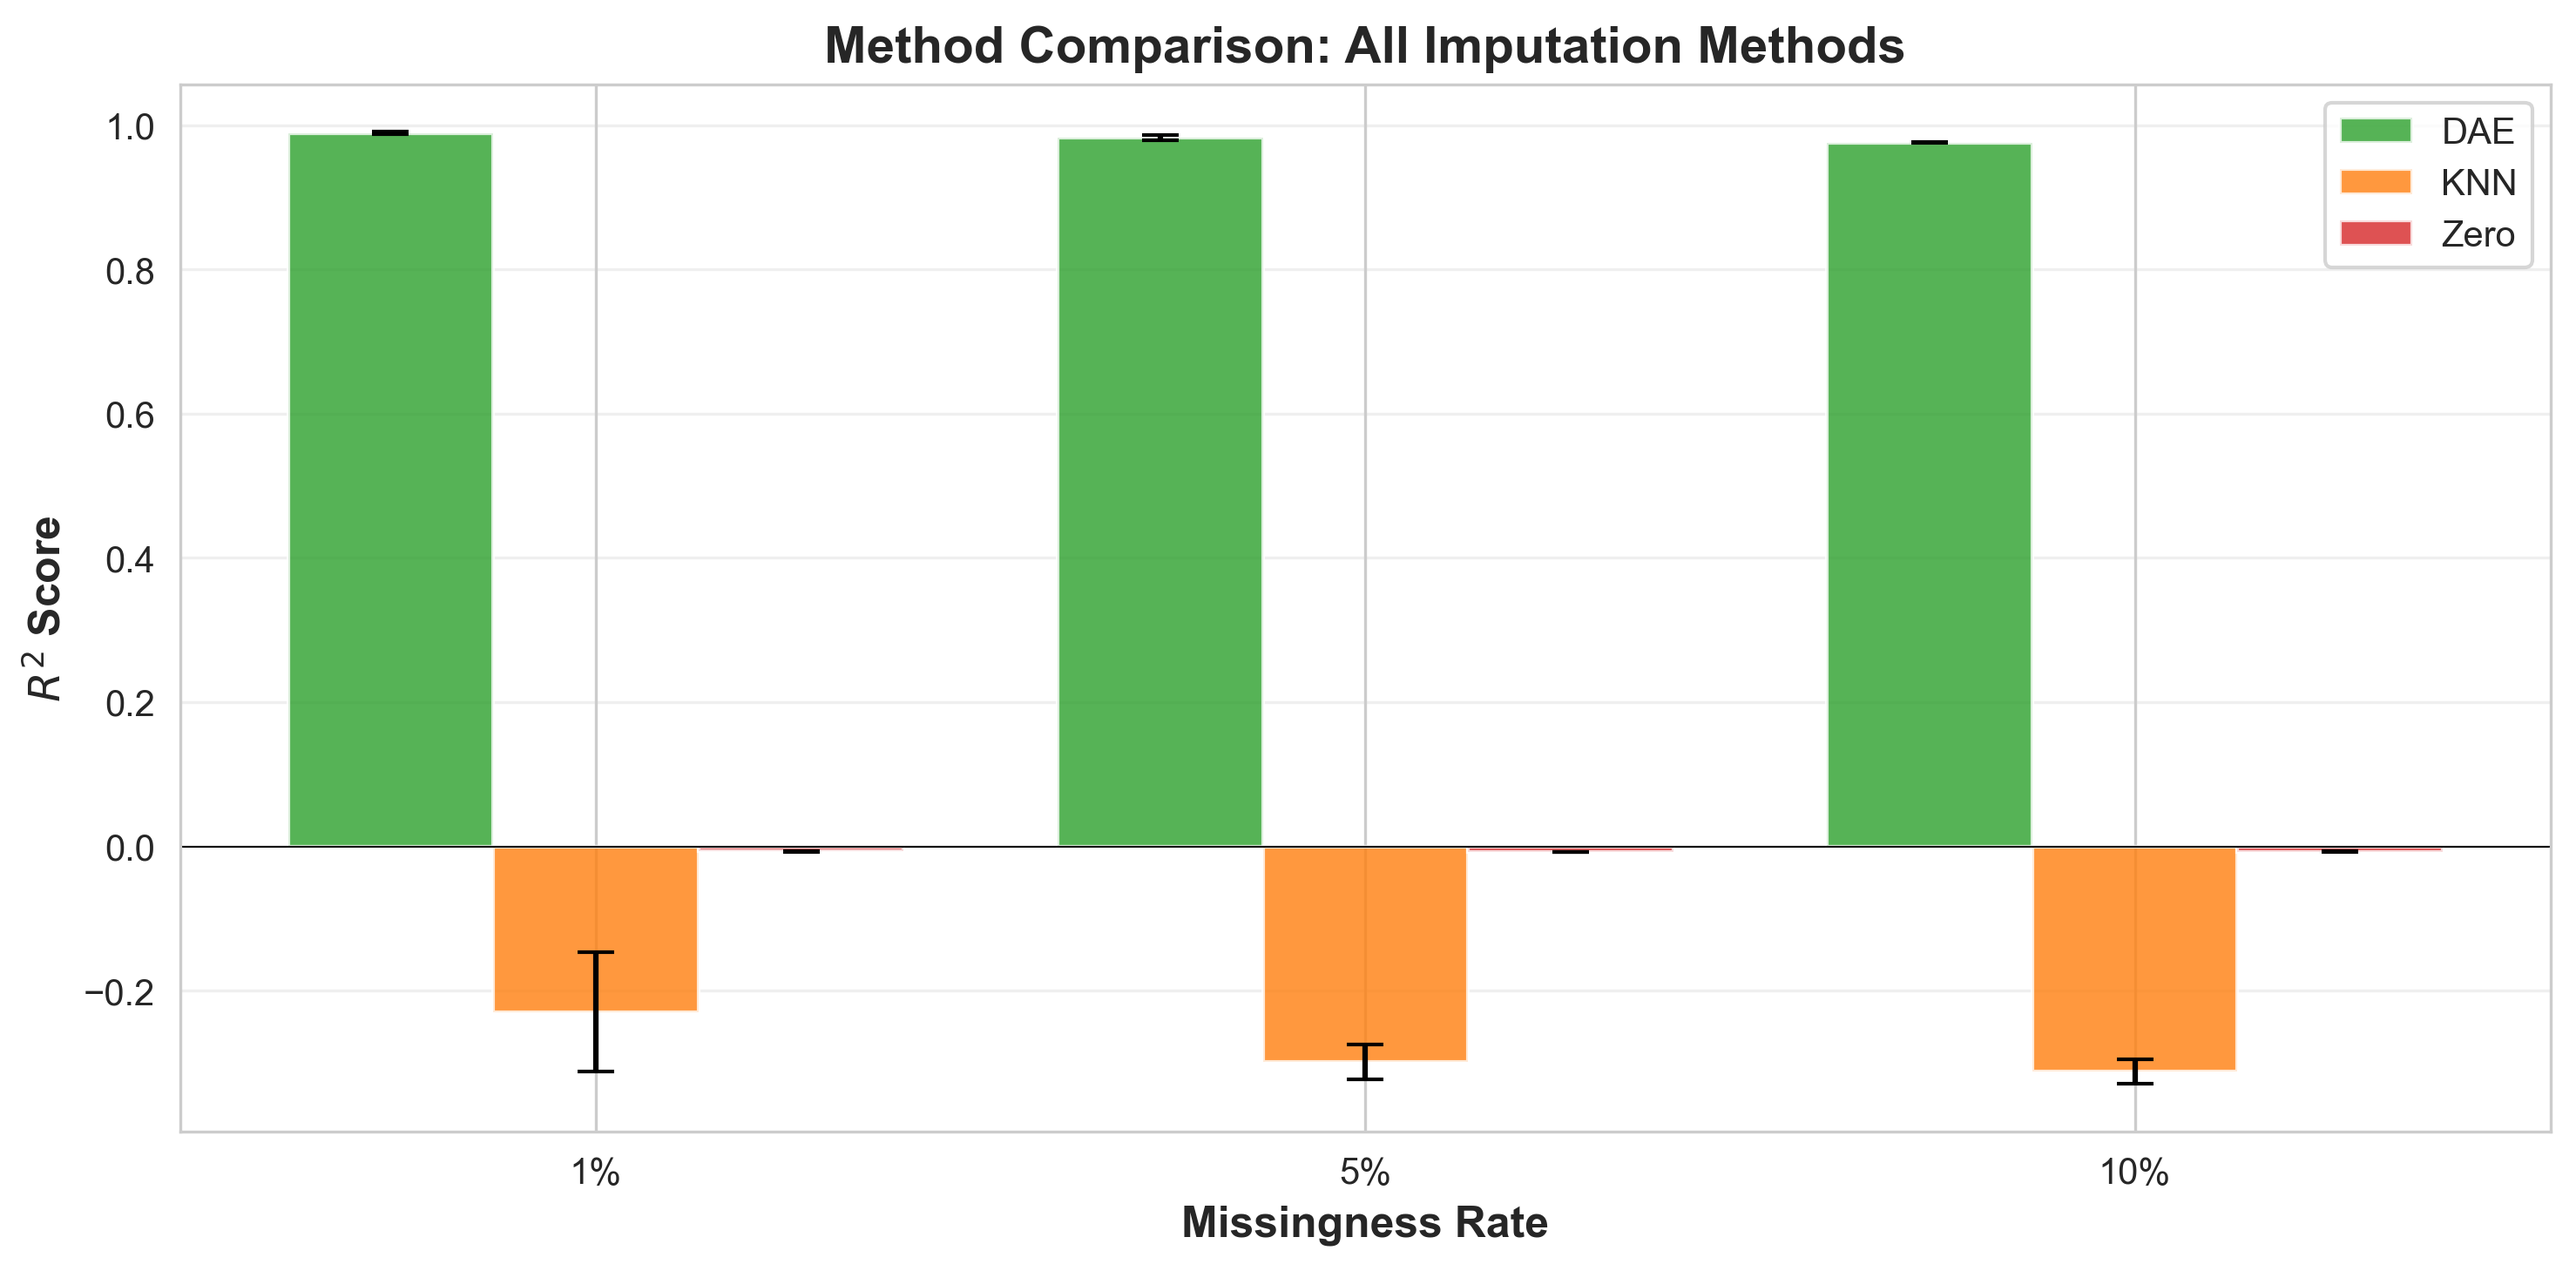
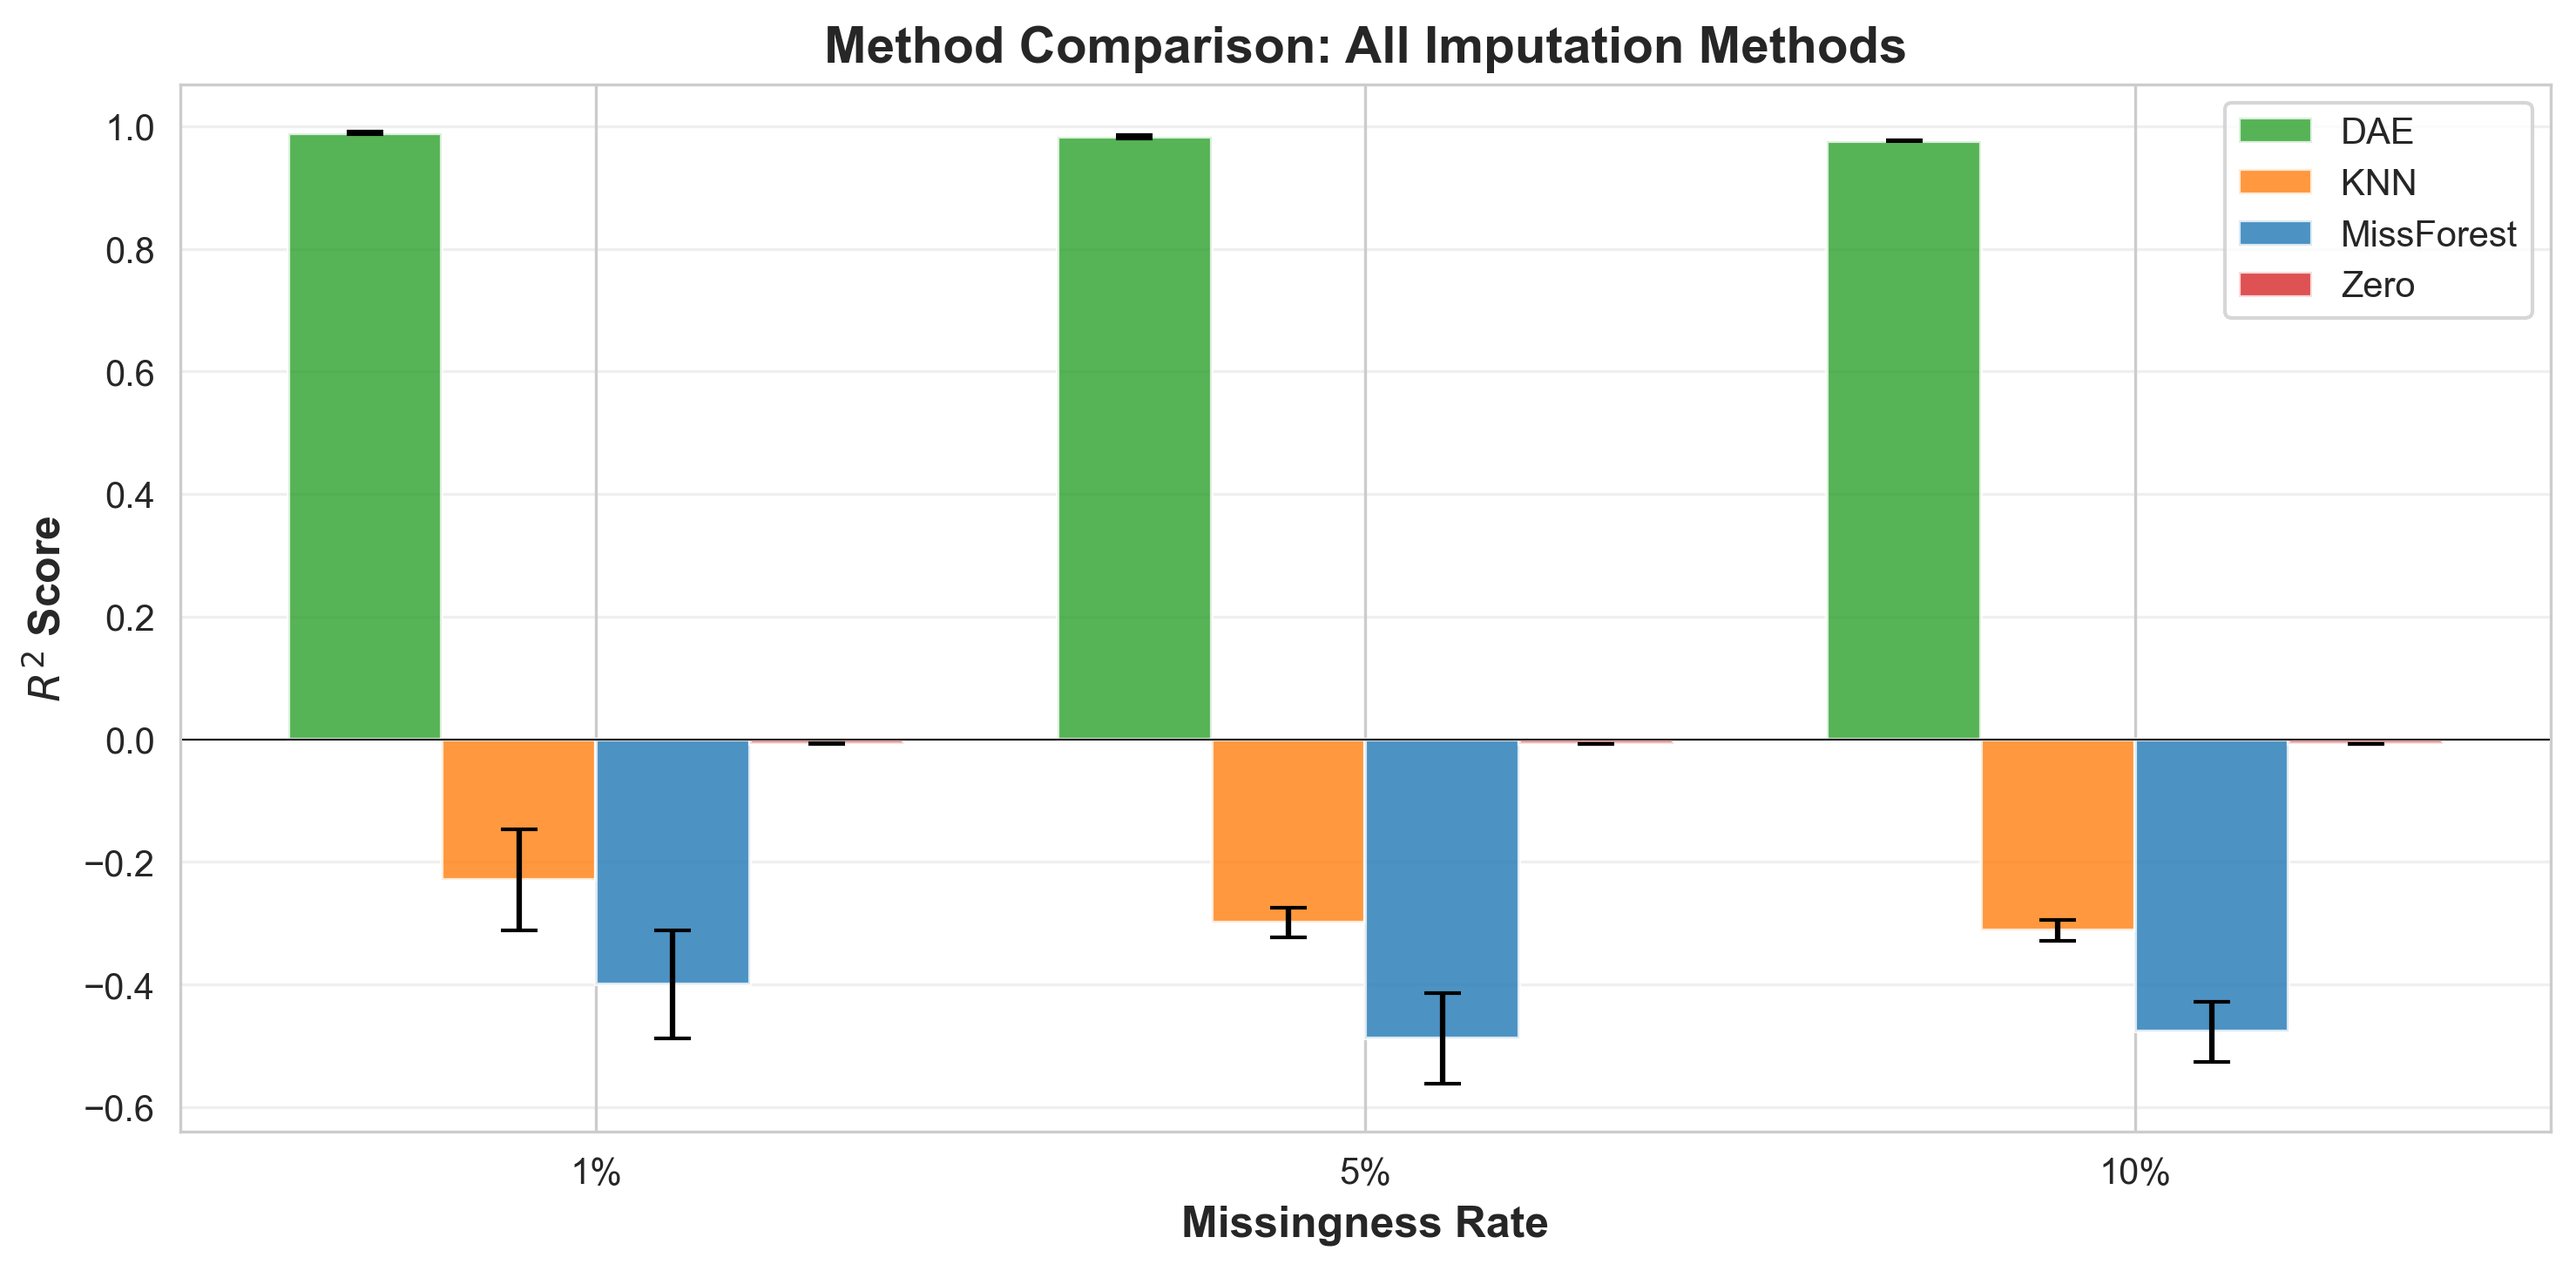
Update method comparison to include MissForest and enhance MissForest R² bar plot layout

diff --git a/src/missforest/plots.py b/src/missforest/plots.py
@@ -36,7 +36,10 @@ def plot_missforest_r2_bars(
         save_path: Path to save figure
         show: Whether to display the plot
     """
-    fig, ax = plt.subplots(figsize=(8, 6))
+    # Use 1x2 layout with plot left and legend right
+    fig, axes = plt.subplots(1, 2, figsize=(10, 4))
+    fig.suptitle(r'MissForest $R^2$ Scores Across Missingness Rates',
+                 fontsize=14, fontweight='bold')
 
     means = []
     stds = []
@@ -51,21 +54,32 @@ def plot_missforest_r2_bars(
             stds.append(results[key]['r2_std'])
             labels.append(f"{miss_rate*100:.0f}%")
 
+    # Plot on left subplot
+    ax = axes[0]
     x = np.arange(len(labels))
-    ax.bar(x, means, yerr=stds, capsize=5, color='#2ca02c', alpha=0.8, label='MissForest')
+    ax.bar(x, means, yerr=stds, capsize=5, color='#2ca02c', alpha=0.8)
 
-    ax.set_xlabel('Missingness Rate', fontweight='bold', fontsize=12)
-    ax.set_ylabel(r'$R^2$ Score', fontweight='bold', fontsize=12)
-    ax.set_title('MissForest Performance Across Missingness Rates',
-                 fontweight='bold', fontsize=14)
+    ax.set_xlabel('Missingness Rate', fontweight='bold')
+    ax.set_ylabel(r'$R^2$ Score', fontweight='bold')
+    ax.set_title('(A) MissForest Performance', fontweight='bold', loc='left')
     ax.set_xticks(x)
     ax.set_xticklabels(labels)
     ax.grid(True, alpha=0.3, axis='y')
-    ax.set_ylim(0, 1.0)
+    ax.axhline(y=0, color='red', linestyle='--', linewidth=1, alpha=0.5)
+
+    # Legend on right subplot
+    axes[1].axis('off')
+    from matplotlib.patches import Patch
+    legend_elements = [
+        Patch(facecolor='#2ca02c', alpha=0.8, label='MissForest (10 iter, 50 trees)')
+    ]
+    axes[1].legend(handles=legend_elements, loc='center', fontsize=11,
+                  frameon=True, fancybox=True, shadow=True)
 
     plt.tight_layout()
 
     if save_path:
+        os.makedirs(os.path.dirname(save_path), exist_ok=True)
         plt.savefig(save_path, dpi=300, bbox_inches='tight')
         print(f"Saved R² bar plot to {save_path}")
 
